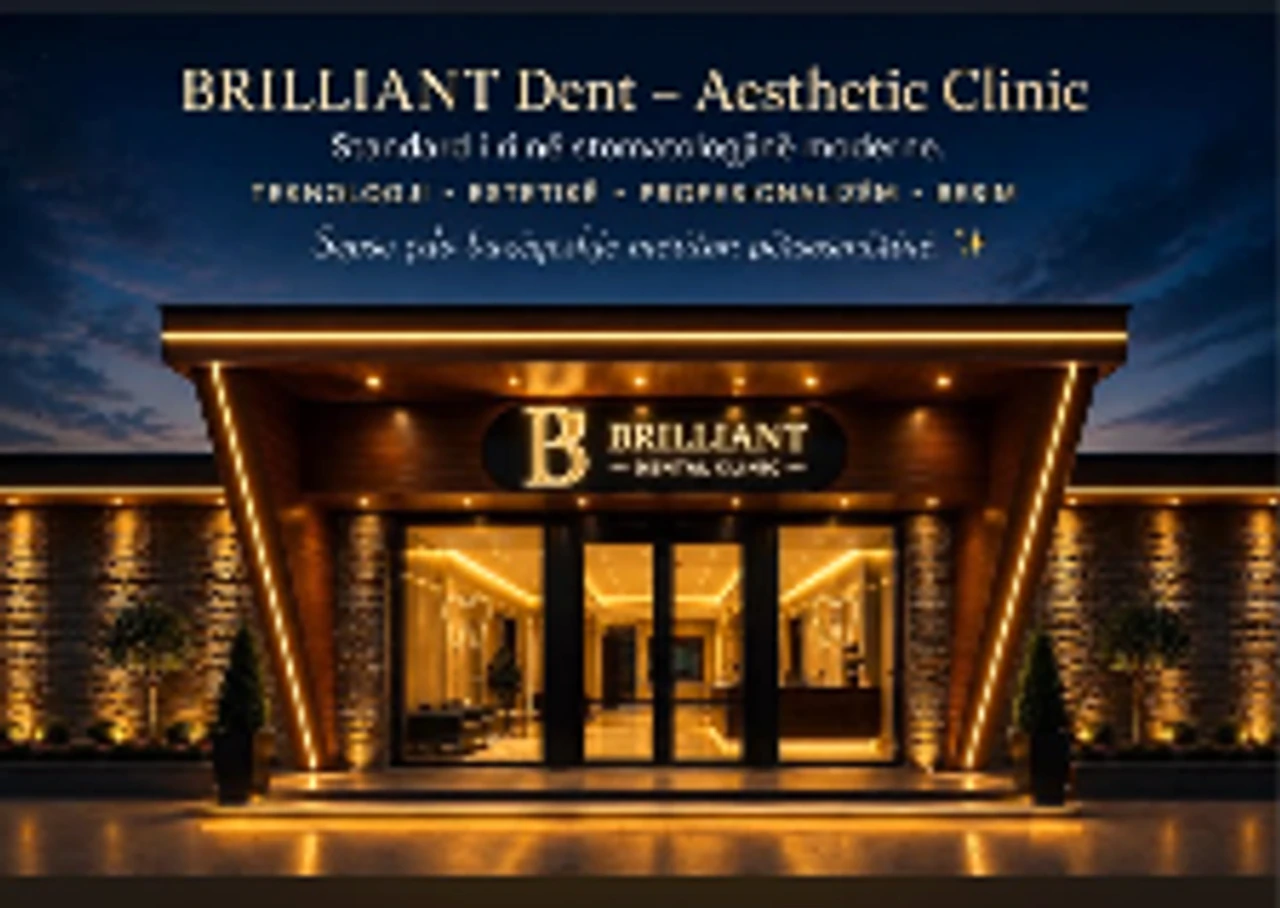
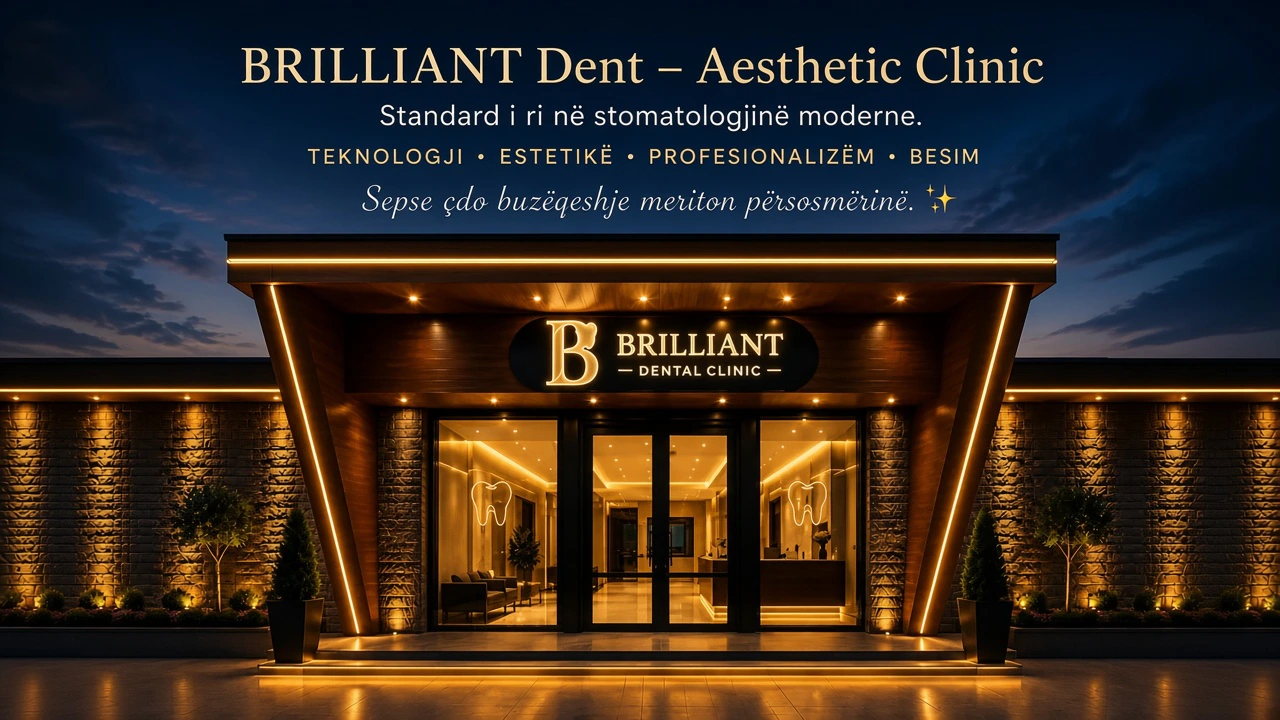
Use the sharp clinic facade and clean photos beside the about text.

diff --git a/public/js/clinic.js b/public/js/clinic.js
@@ -6,6 +6,7 @@ let content;
 
 let heroTimer;
 let roomTimer;
+let aboutTimer;
 
 function carousel(images) {
   clearInterval(heroTimer);
@@ -23,7 +24,7 @@ function carousel(images) {
   images.forEach((item, itemIndex) => {
     const slide = el('div', `slide${itemIndex === 0 ? ' is-on' : ''}`);
     const image = el('img');
-    image.src = item.url;
+    image.src = item.url === '/media/dent/hero-1.webp' ? `${item.url}?v=3` : item.url;
     image.alt = tx(item.caption) || t(clinicKey === 'aesthetic' ? 'altAesHero' : 'altDentHero');
     image.loading = itemIndex === 0 ? 'eager' : 'lazy';
     if (itemIndex === 0) image.fetchPriority = 'high';
@@ -129,6 +130,48 @@ function roomShow() {
   }
   prev.onclick = () => show(index - 1);
   next.onclick = () => show(index + 1);
+  arm();
+}
+
+function aboutPhotos(page) {
+  clearInterval(aboutTimer);
+  const frame = document.querySelector('#aboutPhotos');
+  if (!frame) return;
+  const lang = getLang();
+  const clean = clinicKey === 'dent'
+    ? [
+        ['/media/dent/room-2.webp', { sq: 'Recepsioni', en: 'Reception', de: 'Empfang', fr: 'Réception' }],
+        ['/media/dent/room-3.webp', { sq: 'Hapësira e pritjes', en: 'Waiting area', de: 'Wartebereich', fr: "Salle d'attente" }],
+        ['/media/dent/room-4.webp', { sq: 'Hapësira e pritjes', en: 'Waiting area', de: 'Wartebereich', fr: "Salle d'attente" }],
+        ['/media/dent/room-5.webp', { sq: 'Hyrja e kabinetit', en: 'Treatment room entrance', de: 'Eingang zum Behandlungsraum', fr: 'Entrée du cabinet' }],
+        ['/media/dent/room-1.webp', { sq: 'Kabineti i estetikës', en: 'Aesthetic treatment room', de: 'Ästhetik-Behandlungsraum', fr: 'Salle de soin esthétique' }]
+      ]
+    : page.gallery.filter((item) => item.mediaType === 'image' && item.placement === 'hero').slice(0, 2).map((item) => [item.url, item.caption]);
+  frame.replaceChildren();
+  if (!clean.length) return;
+  let index = 0;
+  const slides = clean.map(([url, caption], itemIndex) => {
+    const slide = el('div', `slide${itemIndex === 0 ? ' is-on' : ''}`);
+    const image = el('img');
+    image.src = url;
+    image.alt = (caption && (caption[lang] || caption.sq)) || t('altAbout');
+    image.decoding = 'async';
+    slide.appendChild(image);
+    frame.appendChild(slide);
+    return slide;
+  });
+  if (slides.length < 2) return;
+  function show(nextIndex) {
+    slides[index].classList.remove('is-on');
+    index = (nextIndex + slides.length) % slides.length;
+    slides[index].classList.add('is-on');
+    arm();
+  }
+  function arm() {
+    clearInterval(aboutTimer);
+    if (matchMedia('(prefers-reduced-motion: reduce)').matches) return;
+    aboutTimer = setInterval(() => show(index + 1), 3800);
+  }
   arm();
 }
 
@@ -257,9 +300,7 @@ function render() {
   });
   if (masonry.children.length) gallery.appendChild(masonry);
 
-  const aboutImg = document.querySelector('#aboutImg');
-  const shot = page.gallery.find((item) => item.mediaType === 'image');
-  if (shot) { aboutImg.src = shot.url; aboutImg.alt = tx(shot.caption) || t('altAbout'); aboutImg.loading = 'lazy'; aboutImg.decoding = 'async'; }
+  aboutPhotos(page);
   document.querySelector('#puna').hidden = page.beforeAfter.length === 0;
 
   const pick = document.querySelector('#clinicPick');

diff --git a/public/css/site.css b/public/css/site.css
@@ -223,7 +223,9 @@ html.motion .slide.is-on img { animation: none; }
 .icon-row a:hover { background: var(--navy); color: white; }
 
 .about-grid { display: grid; grid-template-columns: 1.1fr 0.9fr; gap: 2rem; align-items: center; }
-.about-grid img { width: 100%; height: 460px; object-fit: cover; border-radius: 18px; }
+.about-grid img, .about-photos { width: 100%; height: 460px; object-fit: cover; border-radius: 18px; }
+.about-photos { position: relative; overflow: hidden; background: #efe8df; }
+.about-photos .slide img { border-radius: 0; height: 100%; }
 .ba-list, .profile-work { display: grid; gap: 1.4rem; }
 .ba { position: relative; border-radius: 18px; overflow: hidden; background: #ddd; user-select: none; }
 .ba img { width: 100%; height: min(68vh, 560px); object-fit: cover; }
@@ -480,7 +482,7 @@ html.motion .reveal.is-in { animation: rise .85s ease forwards; }
   .home-bar.solid .langs button { color: var(--ink); border-color: var(--line); background: transparent; }
   .home-bar.solid .langs button[aria-pressed="true"] { background: var(--navy); color: white; border-color: var(--navy); }
   .lang-grid { grid-template-columns: 1fr; }
-  .profile-photo img, .about-grid img, .ba img { height: 360px; }
+  .profile-photo img, .about-grid img, .about-photos, .ba img { height: 360px; }
   .profile-photo img { height: 460px; }
   .staff-row { grid-template-columns: 64px 1fr; }
   .footer { padding-bottom: 5.6rem; }

diff --git a/public/js/home.js b/public/js/home.js
@@ -17,7 +17,7 @@ function paint(data) {
   const aes = data.aesthetic.gallery.find((item) => item.placement === 'hero' && item.mediaType === 'image') || data.aesthetic.gallery.find((item) => item.mediaType === 'image');
   const dentImg = document.querySelector('#doorDent');
   const aesImg = document.querySelector('#doorAes');
-  if (dent) { dentImg.src = dent.url; dentImg.alt = tx(dent.caption) || t('altDoorDent'); }
+  if (dent) { dentImg.src = dent.url === '/media/dent/hero-1.webp' ? `${dent.url}?v=3` : dent.url; dentImg.alt = tx(dent.caption) || t('altDoorDent'); }
   if (aes) { aesImg.src = aes.url; aesImg.alt = tx(aes.caption) || t('altDoorAes'); }
   document.querySelector('#story').textContent = t('story');
   document.querySelector('#learn').textContent = t('learn');

diff --git a/public/clinic.html b/public/clinic.html
@@ -67,7 +67,7 @@
         <h2 data-bind="aboutTitle"></h2>
         <p class="lede" data-bind="aboutBody"></p>
       </div>
-      <img id="aboutImg" alt="">
+      <div class="about-photos" id="aboutPhotos"></div>
     </div>
   </section>
   <section class="section" id="puna">

diff --git a/PUNA.md b/PUNA.md
@@ -50,4 +50,4 @@
 - Në sliderin e stomatologjisë, me radhë: fasada, kabineti i trajtimit, hapësira e pritjes. Fotot e mëparshme të atij slideri u zëvendësuan.
 - Në telefon fotoja zë gjerësinë e ekranit dhe butonat qëndrojnë poshtë tekstit, pa u mbuluar nga WhatsApp. Në ekran të gjerë fotoja dhe shiriti hyjnë në një ekran.
 - Fotoja e dytë është salla e mbledhjes. Të tria fotot mbushin kutinë, pa vija të zeza anash dhe pa fletë mbi foto.
-- Fotoja e Dr. Burimit te stafi është portreti me uniformë blu. Mes shërbimeve dhe stafit, te stomatologjia, lëviz një slider me pesë foto të brendshme. Te estetika, heroja fillon me posterin PRX-T33.
+- Fotoja e parë e stomatologjisë është e njëjta fasadë e mprehtë si te estetika, me tekstin e stomatologjisë. Poshtë stafit, te «Kujdes i qetë», fotot e brendshme të pastra zëvendësojnë foton e turbullt.
